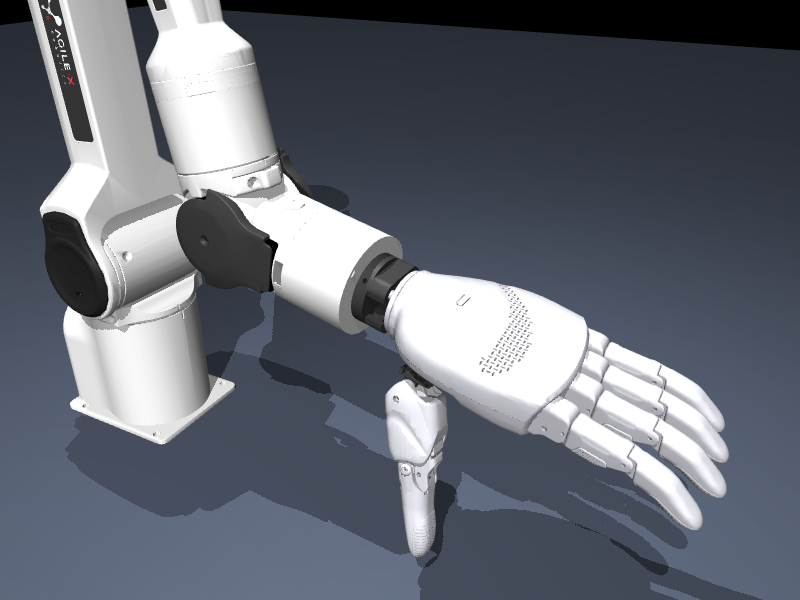
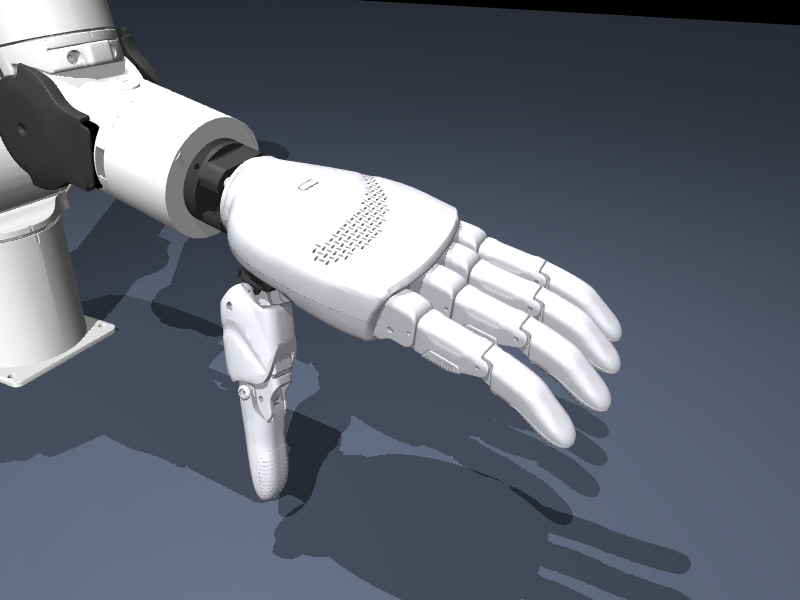
docs(sim): 修正抓取序列动画取景
问题：grasp_sequence.gif 在下降/握拳阶段手指逼近甚至贴到画面右边缘（用户目检发现裁切）。

修法（sim/piper_linker/tools/render_demo.py）：
- 取景改为"对整段动画取并集包围盒"：渲染前先预扫一遍（只推进物理不渲染），
  每帧取全部可见几何的保守包围点集（geom 中心 ± geom_rbound，比 body 原点更贴近
  指尖/手掌外形），对整段取 min/max 得 lookat 中心与包围球半径；
  手部特写只对 lh_* 手部几何取并集（手臂在特写里出框属预期）。
- 距离用二分搜索收紧到"恰好留 10% 边距"：判据是渲染后真实 NDC 投影的最大 |ndc|
  （目标 1/margin = 0.909），上界取保守包围球距离，14 次迭代收敛；NDC 自检同时作为
  每张产物的验证指标打印（含"留边 %"）。
- 预扫与渲染两遍统一从 home 状态出发（reset_at_home），避免瞬态差异导致取景失配。

结果（全部 800x600 / 20fps，|ndc| = 0.909 → 各边留白 10%）：
  sim_iso.png 130KB、sim_hand.png 163KB、sim_flat_grasp.png 144KB、
  hand_open_fist.gif 775KB（26 帧/1.3s）、grasp_sequence.gif 1396KB（57 帧/2.9s）
逐张目检（导出首/中/末帧后实看）：整机等轴测、手部张开特写、平抓特写在框内且不贴边；
抓取序列首帧（home 最宽姿态）、中帧（平抓+下降）、末帧（握拳抬起）整机完整在框内。

diff --git a/sim/piper_linker/tools/render_demo.py b/sim/piper_linker/tools/render_demo.py
@@ -20,6 +20,10 @@
 #   手指远端关节（thumb_ip / *_dip）由 scene.xml 的 equality 约束联动，无需单独驱动。
 # - 模型的 6 个手部执行器 ctrllimited=False（ctrlrange 显示为 0,0 但不生效），可直接写 ctrl。
 # - 垂直下降/抬升用 6 个臂关节的阻尼最小二乘 IK（mujoco.mj_jacBody）平移手掌，避免手写关节增量。
+# - **取景**：动画先"预扫"一遍（只推进物理不渲染），把每一帧所有 body 的世界坐标取并集
+#   包围盒，再据此定 lookat（并集中心）与 distance（= margin·包围球半径 / sin(fovy/2)），
+#   保证每一帧整机都在框内并留边距；手部特写则只对 lh_* 手部 body 取并集。
+#   渲完还会用相机位姿把所有 body 投影到 NDC，报告最贴边的 |ndc|（目标 ≤ 0.9，即 ≥10% 边距）。
 # - EGL 在解释器退出时清理 GL 上下文可能报一次 EGLError（不影响已写出的文件），
 #   脚本末尾用 os._exit(0) 跳过该析构报错。
 import argparse
@@ -81,6 +85,50 @@ class Demo:
         for _ in range(steps or 1500):
             mujoco.mj_step(self.model, self.data)
 
+    def advance(self):
+        """推进一"帧"对应的物理步数。"""
+        for _ in range(self.substeps):
+            mujoco.mj_step(self.model, self.data)
+
+    def reset_at_home(self):
+        """回到 keyframe home 并稳定（预扫后重新渲染用）。"""
+        self.data.qpos[:] = 0.0
+        self.data.qvel[:] = 0.0
+        self.data.ctrl[:] = 0.0
+        self.set_ctrl(arm=ARM_HOME_CTRL, hand=HAND_OPEN)
+        mujoco.mj_forward(self.model, self.data)
+        self.settle()
+
+    def extent_points(self, body_ids=None):
+        """可见几何的保守包围点集：geom 中心 ± geom_rbound。
+
+        比 body 原点更接近真实外形（指尖/手掌网格离 body 原点的距离不可忽略）。
+        """
+        c = np.asarray(self.data.geom_xpos, dtype=float)
+        r = np.asarray(self.model.geom_rbound, dtype=float)
+        if body_ids is not None:
+            mask = np.isin(self.model.geom_bodyid, np.asarray(body_ids))
+            c, r = c[mask], r[mask]
+        return np.concatenate([c - r[:, None], c + r[:, None]], axis=0)
+
+    def ndc_margin(self, cam, points):
+        """把世界点用当前相机投影到 NDC，返回最大 |ndc|（越小越居中；≥1 表示出框）。"""
+        scn = self.renderer.scene
+        c = scn.camera[0]
+        pos = np.array(c.pos, dtype=float)
+        fwd = np.array(c.forward, dtype=float)
+        up = np.array(c.up, dtype=float)
+        right = np.cross(fwd, up)
+        right /= np.linalg.norm(right)
+        view = np.stack([right, up, fwd])          # 相机坐标系（z 向前）
+        rel = (points - pos) @ view.T
+        fovy = np.deg2rad(self.model.vis.global_.fovy)
+        aspect = self.width / self.height
+        tan_y = np.tan(fovy / 2)
+        ndc_x = (rel[:, 0] / np.maximum(rel[:, 2], 1e-6)) / (tan_y * aspect)
+        ndc_y = (rel[:, 1] / np.maximum(rel[:, 2], 1e-6)) / tan_y
+        return float(max(np.abs(ndc_x).max(), np.abs(ndc_y).max()))
+
     def hand_pos(self):
         return self.data.xpos[self.hand_body].copy()
 
@@ -116,6 +164,59 @@ class Demo:
             mujoco.mj_forward(self.model, self.data)
 
 
+def union_bbox(frame_positions):
+    """多帧 body 世界坐标的并集包围盒 -> (lo, hi)。"""
+    allp = np.concatenate(frame_positions, axis=0)
+    return allp.min(axis=0), allp.max(axis=0)
+
+
+def frame_from_bbox(lo, hi, margin=1.10, fov_deg=None):
+    """由包围盒算 (lookat_center, distance)：以 AABB 对角线为包围球，留 margin 边距。"""
+    fov_deg = 45.0 if fov_deg is None else fov_deg
+    center = (lo + hi) / 2.0
+    radius = float(np.linalg.norm(hi - lo) / 2.0)
+    distance = margin * radius / np.sin(np.deg2rad(fov_deg) / 2.0)
+    return center, distance, radius
+
+
+def max_ndc(demo, cam, points):
+    """渲一帧并返回点集的最大 |ndc|（1.0 = 画面边缘）。"""
+    demo.render(cam)
+    scn = demo.renderer.scene
+    c = scn.camera[0]
+    pos = np.array(c.pos, dtype=float)
+    fwd = np.array(c.forward, dtype=float); fwd /= np.linalg.norm(fwd)
+    up = np.array(c.up, dtype=float); up /= np.linalg.norm(up)
+    right = np.cross(fwd, up); right /= np.linalg.norm(right)
+    q = np.asarray(points, dtype=float) - pos
+    z = np.maximum(q @ fwd, 1e-6)
+    fovy = np.deg2rad(demo.model.vis.global_.fovy)
+    tan_y = np.tan(fovy / 2)
+    tan_x = tan_y * (demo.width / demo.height)
+    return float(max(np.abs(q @ right / z / tan_x).max(), np.abs(q @ up / z / tan_y).max()))
+
+
+def refine_distance(demo, cam, points, margin=1.10, iters=14):
+    """把机位收紧到"恰好留 margin 边距"：以保守包围球距离为上界，对 distance 二分。
+
+    判据用渲染后的真实 NDC 投影（max_ndc），目标 |ndc| = 1/margin（默认 0.909 ≈ 10% 边距）。
+    """
+    target = 1.0 / margin
+    hi = float(cam.distance)          # 保守上界（包围球，必然满足）
+    lo = 0.05
+    if max_ndc(demo, cam, points) > target:
+        return hi                     # 粗定机位已不满足，保守回退
+    for _ in range(iters):
+        mid = (lo + hi) / 2
+        cam.distance = mid
+        if max_ndc(demo, cam, points) <= target:
+            hi = mid
+        else:
+            lo = mid
+    cam.distance = hi
+    return hi
+
+
 def save_png(path, img, quality=95):
     from PIL import Image
     Image.fromarray(img).save(path, optimize=True)
@@ -144,6 +245,84 @@ def stats_of(img):
     return float(a.mean()), float(a.std())
 
 
+def hand_bodies(model):
+    """lh_* 手部 body 的 id 列表（用于手部特写取景）。"""
+    ids = []
+    for b in range(model.nbody):
+        n = mujoco.mj_id2name(model, mujoco.mjtObj.mjOBJ_BODY, b) or ""
+        if n.startswith("lh_"):
+            ids.append(b)
+    return ids
+
+
+def run_hand_sequence(demo, cam=None, hand_ids=None):
+    """手：张开→握拳→张开（插值）。
+
+    返回 (帧图像列表, 每帧全部几何点集, 每帧手部几何点集)；cam=None 时只推进物理。
+    """
+    imgs, poss, hand_poss = [], [], []
+    segments = [(HAND_OPEN, HAND_FIST, 12), (HAND_FIST, HAND_OPEN, 12)]
+    demo.reset_at_home()  # 预扫与渲染两遍必须从同一状态出发
+
+    def emit():
+        if cam is not None:
+            imgs.append(demo.render(cam))
+        poss.append(demo.extent_points())
+        hand_poss.append(demo.extent_points(hand_ids) if hand_ids else demo.extent_points())
+
+    demo.set_ctrl(arm=ARM_HOME_CTRL, hand=HAND_OPEN)
+    emit()
+    for a, b, n in segments:
+        for i in range(1, n + 1):
+            demo.set_ctrl(hand=lerp(a, b, smoothstep(i / n)))
+            demo.advance()
+            emit()
+    emit()  # 末尾停一帧（总时长里体现为停顿）
+    return imgs, poss, hand_poss
+
+
+def run_grasp_sequence(demo, cam=None):
+    """抓取序列：home → 平抓姿态 → 垂直下降 4cm → 握拳 → 抬起。
+
+    返回 (帧图像列表, 每帧全部 body 位置)。cam=None 时只推进物理（取景预扫用）。
+    """
+    imgs, poss = [], []
+    demo.reset_at_home()  # 预扫与渲染两遍必须从同一状态出发
+
+    def emit():
+        if cam is not None:
+            imgs.append(demo.render(cam))
+        poss.append(demo.extent_points())
+
+    demo.set_ctrl(arm=ARM_HOME_CTRL, hand=HAND_OPEN)
+    emit()
+    # (a) home → 平抓姿态
+    for i in range(1, 17):
+        demo.set_ctrl(arm=lerp(ARM_HOME_CTRL, demo.flat_arm, smoothstep(i / 16)), hand=HAND_OPEN)
+        demo.advance()
+        emit()
+    # (b) 垂直下降到假想抓取高度（IK 平移手掌 -4cm）
+    start = demo.hand_pos()
+    goal = start - np.array([0.0, 0.0, 0.04])
+    for i in range(1, 15):
+        demo.ik_hand_to(start + (goal - start) * smoothstep(i / 14))
+        demo.advance()
+        emit()
+    # (c) 握拳
+    for i in range(1, 11):
+        demo.set_ctrl(hand=lerp(HAND_OPEN, HAND_FIST, smoothstep(i / 10)))
+        demo.advance()
+        emit()
+    # (d) 抬起
+    for i in range(1, 15):
+        demo.ik_hand_to(goal + (start - goal) * smoothstep(i / 14))
+        demo.advance()
+        emit()
+    emit()  # 末尾停两帧
+    emit()
+    return imgs, poss
+
+
 def main():
     ap = argparse.ArgumentParser(description="MuJoCo 离屏渲染演示（PNG + GIF）")
     ap.add_argument("--width", type=int, default=800, help="静图宽度（默认 800）")
@@ -151,103 +330,92 @@ def main():
     ap.add_argument("--gif-width", type=int, default=800, help="GIF 宽度（默认同静图）")
     ap.add_argument("--gif-height", type=int, default=600, help="GIF 高度（默认同静图）")
     ap.add_argument("--fps", type=int, default=20, help="GIF 帧率（默认 20）")
-    ap.add_argument("--gif-palette", type=int, default=32, help="GIF 量化色数（默认 32，越小体积越小）")
+    ap.add_argument("--gif-palette", type=int, default=32, help="GIF 量化色数（默认 32）")
+    ap.add_argument("--margin", type=float, default=1.10, help="取景边距系数（默认 1.10 ≈ 留 10% 边距）")
     ap.add_argument("--outdir", default=os.path.join(REPO_ROOT, "docs", "media"), help="输出目录")
     args = ap.parse_args()
     os.makedirs(args.outdir, exist_ok=True)
+    results, framing = [], []
 
-    results = []
-
-    # ============ 1) 静图（用静图分辨率） ============
+    # ============ 1) 静图（平抓姿态；按 body 并集取景） ============
     demo = Demo(args.width, args.height, args.fps)
     demo.set_ctrl(arm=demo.flat_arm, hand=HAND_OPEN)
     demo.settle()
-    hand_flat = demo.hand_pos()
+    hi_ids = hand_bodies(demo.model)
+    bodies = demo.extent_points()
+    flat_pos = demo.hand_pos()
 
-    cam_iso = demo.make_camera(distance=1.05, azimuth=135, elevation=-20)
+    # 整机等轴测：并集 = 全部 body；手部两张：并集 = lh_* 手部 body（+ 腕 link6）
+    iso_c, iso_d, iso_r = frame_from_bbox(bodies.min(axis=0), bodies.max(axis=0), args.margin)
+    hand_pts = demo.extent_points(hi_ids)
+    hand_c, hand_d, hand_r = frame_from_bbox(hand_pts.min(axis=0), hand_pts.max(axis=0), args.margin)
+
+    cam_iso = demo.make_camera(lookat=iso_c, distance=iso_d, azimuth=135, elevation=-20)
+    refine_distance(demo, cam_iso, bodies, args.margin)
     img = demo.render(cam_iso)
     p = os.path.join(args.outdir, "sim_iso.png"); save_png(p, img)
     results.append(("sim_iso.png", p, f"{args.width}x{args.height}", "-", *stats_of(img)))
+    framing.append(("sim_iso.png", iso_c, iso_r, cam_iso.distance, demo.ndc_margin(cam_iso, bodies), bodies))
 
-    cam_hand = demo.make_camera(lookat=hand_flat, distance=0.38, azimuth=118, elevation=-28)
+    cam_hand = demo.make_camera(lookat=hand_c, distance=hand_d, azimuth=118, elevation=-28)
+    refine_distance(demo, cam_hand, hand_pts, args.margin)
     img = demo.render(cam_hand)
     p = os.path.join(args.outdir, "sim_hand.png"); save_png(p, img)
     results.append(("sim_hand.png", p, f"{args.width}x{args.height}", "-", *stats_of(img)))
+    framing.append(("sim_hand.png", hand_c, hand_r, cam_hand.distance, demo.ndc_margin(cam_hand, hand_pts), hand_pts))
 
-    cam_flat = demo.make_camera(lookat=hand_flat, distance=0.50, azimuth=152, elevation=-14)
+    cam_flat = demo.make_camera(lookat=hand_c, distance=hand_d * 1.35, azimuth=152, elevation=-14)
+    refine_distance(demo, cam_flat, hand_pts, args.margin)
     img = demo.render(cam_flat)
     p = os.path.join(args.outdir, "sim_flat_grasp.png"); save_png(p, img)
     results.append(("sim_flat_grasp.png", p, f"{args.width}x{args.height}", "-", *stats_of(img)))
+    framing.append(("sim_flat_grasp.png", hand_c, hand_r * 1.35, cam_flat.distance,
+                    demo.ndc_margin(cam_flat, hand_pts), hand_pts))
 
     # ============ 2) GIF：手 张开→握拳→张开 ============
+    # 预扫（只推进物理）→ 并集包围盒 → 定机位 → 重新播一遍并渲染
+    pre = Demo(args.gif_width, args.gif_height, args.fps)
+    _, _, hand_only_list = run_hand_sequence(pre, hand_ids=hi_ids)
+    hand_only = np.concatenate(hand_only_list, axis=0)
+    c, d, r = frame_from_bbox(hand_only.min(axis=0), hand_only.max(axis=0), args.margin)
+
     demo2 = Demo(args.gif_width, args.gif_height, args.fps)
-    demo2.set_ctrl(arm=ARM_HOME_CTRL, hand=HAND_OPEN)
-    demo2.settle()
-    cam = demo2.make_camera(lookat=demo2.hand_pos(), distance=0.38, azimuth=118, elevation=-28)
-    frames = []
-    segments = [(HAND_OPEN, HAND_FIST, 12), (HAND_FIST, HAND_OPEN, 12)]
-    cur = list(HAND_OPEN)
-    demo2.set_ctrl(hand=cur)
-    frames.append(demo2.render(cam))
-    for a, b, n in segments:
-        for i in range(1, n + 1):
-            t = smoothstep(i / n)
-            demo2.set_ctrl(hand=lerp(a, b, t))
-            for _ in range(demo2.substeps):
-                mujoco.mj_step(demo2.model, demo2.data)
-            frames.append(demo2.render(cam))
-    # 回到张开后再停 2 帧
-    frames.extend([frames[-1]] * 2)
+    cam2 = demo2.make_camera(lookat=c, distance=d, azimuth=118, elevation=-28)
+    refine_distance(demo2, cam2, hand_only, args.margin)
+    frames, poss2, hand2 = run_hand_sequence(demo2, cam=cam2, hand_ids=hi_ids)
     p = os.path.join(args.outdir, "hand_open_fist.gif")
     save_gif(p, frames, args.fps, args.gif_palette)
+    ndc2 = max(demo2.ndc_margin(cam2, hp) for hp in hand2)  # 手部特写只要求手部在框内
     results.append(("hand_open_fist.gif", p, f"{args.gif_width}x{args.gif_height}",
                     f"{len(frames)}帧/{len(frames)/args.fps:.1f}s", *stats_of(frames[len(frames)//2])))
+    framing.append(("hand_open_fist.gif", c, r, cam2.distance, ndc2, hand_only))
 
-    # ============ 3) GIF：抓取序列 home → 平抓 → 下降 → 握拳 → 抬起 ============
+    # ============ 3) GIF：抓取序列 ============
+    pre3 = Demo(args.gif_width, args.gif_height, args.fps)
+    _, poss3 = run_grasp_sequence(pre3)
+    lo, hi = union_bbox(poss3)
+    c3, d3, r3 = frame_from_bbox(lo, hi, args.margin)
+
     demo3 = Demo(args.gif_width, args.gif_height, args.fps)
-    demo3.set_ctrl(arm=ARM_HOME_CTRL, hand=HAND_OPEN)
-    demo3.settle()
-    cam3 = demo3.make_camera(distance=1.0, azimuth=140, elevation=-16)
-    frames = []
-    frames.append(demo3.render(cam3))
-
-    # (a) home → 平抓姿态（插值臂关节）
-    for i in range(1, 17):
-        t = smoothstep(i / 16)
-        demo3.set_ctrl(arm=lerp(ARM_HOME_CTRL, demo3.flat_arm, t), hand=HAND_OPEN)
-        for _ in range(demo3.substeps):
-            mujoco.mj_step(demo3.model, demo3.data)
-        frames.append(demo3.render(cam3))
-    # (b) 垂直下降到假想抓取高度（IK 平移手掌 -4cm）
-    start = demo3.hand_pos()
-    goal = start - np.array([0.0, 0.0, 0.04])
-    for i in range(1, 15):
-        t = smoothstep(i / 14)
-        demo3.ik_hand_to(start + (goal - start) * t)
-        for _ in range(demo3.substeps):
-            mujoco.mj_step(demo3.model, demo3.data)
-        frames.append(demo3.render(cam3))
-    # (c) 握拳（手插值）
-    for i in range(1, 11):
-        t = smoothstep(i / 10)
-        demo3.set_ctrl(hand=lerp(HAND_OPEN, HAND_FIST, t))
-        for _ in range(demo3.substeps):
-            mujoco.mj_step(demo3.model, demo3.data)
-        frames.append(demo3.render(cam3))
-    # (d) 抬起回下降前高度
-    for i in range(1, 15):
-        t = smoothstep(i / 14)
-        demo3.ik_hand_to(goal + (start - goal) * t)
-        for _ in range(demo3.substeps):
-            mujoco.mj_step(demo3.model, demo3.data)
-        frames.append(demo3.render(cam3))
-    frames.extend([frames[-1]] * 2)  # 末尾停两帧
+    cam3 = demo3.make_camera(lookat=c3, distance=d3, azimuth=140, elevation=-16)
+    refine_distance(demo3, cam3, np.concatenate(poss3, axis=0), args.margin)
+    frames, poss3r = run_grasp_sequence(demo3, cam=cam3)
     p = os.path.join(args.outdir, "grasp_sequence.gif")
     save_gif(p, frames, args.fps, args.gif_palette)
+    ndc3 = max(demo3.ndc_margin(cam3, p_) for p_ in poss3r)
     results.append(("grasp_sequence.gif", p, f"{args.gif_width}x{args.gif_height}",
                     f"{len(frames)}帧/{len(frames)/args.fps:.1f}s", *stats_of(frames[len(frames)//2])))
+    framing.append(("grasp_sequence.gif", c3, r3, cam3.distance, ndc3, np.concatenate(poss3, axis=0)))
 
     # ============ 验证报告 ============
+    print("\n=== 取景（并集包围盒 → 机位）===")
+    print(f"{'产物':<22}{'lookat 中心 (x,y,z)':<30}{'包围球半径':<12}{'最终distance':<13}{'最贴边 |ndc|':<12}留边")
+    for name, c_, r_, d_, ndc_, pts_ in framing:
+        flag = "  <-- 贴边/出框！" if ndc_ > 0.95 else ""
+        margin_pct = (1.0 / ndc_ - 1.0) * 100 if ndc_ > 0 else float("inf")
+        print(f"{name:<22}{str(np.round(c_, 3).tolist()):<30}{r_:<12.3f}{d_:>8.3f}   {ndc_:<10.3f}留边 {margin_pct:>5.1f}%{flag}")
+    print("说明：|ndc| 为投影后最贴边点的归一化坐标（1.0=画面边缘）；留边 % = (1/|ndc|-1)。")
+
     print("\n=== 渲染产物（尺寸 / 帧数 / 体积 / 非空统计）===")
     print(f"{'文件':<22}{'分辨率':<12}{'帧数':<12}{'体积':<11}{'平均亮度':<10}{'标准差'}")
     ok = True
